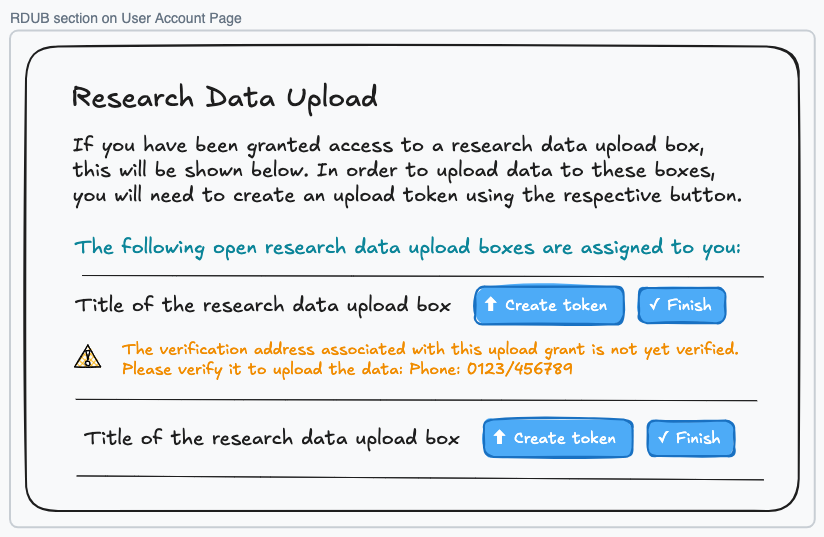
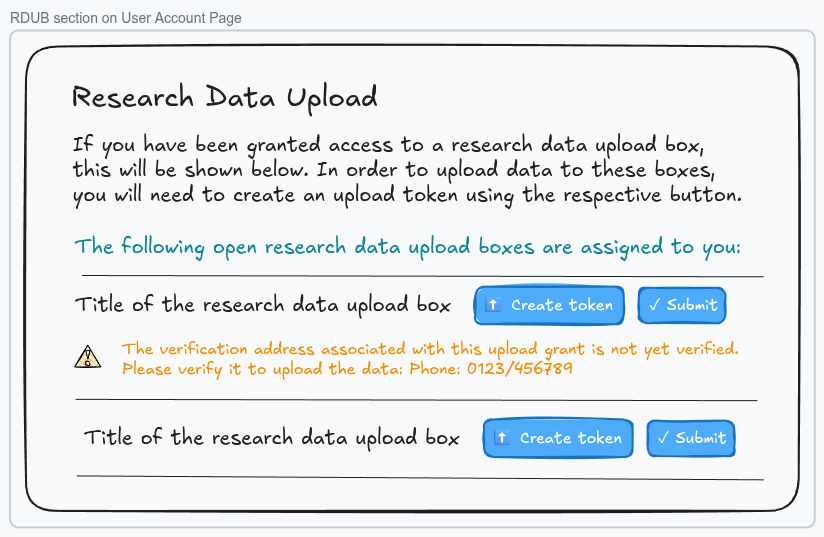
Update with latest suggestions

diff --git a/86-archaeopteryx/technical_specification.md b/86-archaeopteryx/technical_specification.md
@@ -8,7 +8,7 @@
 
 In this epic we implement the minimum necessary frontend functionality to make Research Data Upload Boxes fully usable with the current version of the backend and to map uploaded research data files to their corresponding entries in the submitted experimental metadata.
 
-This will be an interim solution that still needs the data steward to help with management of the research data upload boxes and mapping the files, and this solution is not yet integrated with the planned study repository service.
+This will be an interim solution that still requires a data steward to help manage the Research Data Upload Boxes and map the files, and this solution is not yet integrated with the planned study repository service.
 
 Research Data Upload Boxes (RDUBs) have been specified and were implemented in the [Lynx Boreal](../76-lynx-boreal/technical_specification.md) and [Sarcastic Fringehead](../84-sarcastic-fringehead/technical_specification.md) epics on the backend side already.
 
@@ -20,26 +20,26 @@ The implementation contains three parts:
 
 An Upload Box Manager shall be added to the frontend. It shall be accessible by data stewards via the Admin menu and allow them to:
 
-- list available RDUBs
-- create a new RDUB for a specific user
-- close, lock and unlock RDUBs
+- List available RDUBs.
+- Create a new RDUB for a specific user.
+- Close, lock and unlock RDUBs.
 
 Additionally, an "Upload Grants" section should be added to the User Manager that shows the upload grants of the user and the corresponding RDUBs.
 
 #### 2. Upload Token Creation
 
-Users should be able to see all RDUBs that have been opened for them in a new section on their account page. For all RDUBs in the "open" state, the interface will show a button leading to a page that allows users to create an upload token for that RDUB. This should function similarly to the existing functionality for creating download tokens.
+Users should be able to see all RDUBs opened for them in a new section on their account page. For all RDUBs in the "open" state, the interface will show a button leading to a page that allows users to create an upload token for that RDUB. This should function similarly to the existing functionality for creating download tokens.
 
-The currently existing page on the "work-packages" path that was meant to support both download and upload tokens should be removed, and both upload and download tokens should be created directly on the account page using modals for entering the public key and showing the token.
+The currently existing page on the "work-packages" path that was meant to support both download and upload tokens should be removed. Both kinds of tokens should be created directly on the account page instead, using modals for entering the public key and showing the token.
 
 #### 3. Research Data File to Experimental Metadata File Mapping
 
-The Upload Box Manager should provide a sub-page that helps establishing the missing link between the uploaded files in the Research Data Upload Boxes (RDUBs) and the submitted Experimental Metadata (EM):
+The Upload Box Manager should provide a sub-page that helps establish the missing link between the uploaded files in the Research Data Upload Boxes (RDUBs) and the submitted Experimental Metadata (EM):
 
-- RDUBs identify files via a globally unique ID and by a user-specified alias that is unique per RDUB
-- EM identifies files via accession numbers, but files also have a field for the name of the file and an alias
+- RDUBs identify files via a globally unique ID and a user-specified alias that is unique per RDUB.
+- EM identifies files via accession numbers, but files also have a field for the name of the file and an alias.
 
-By default the ghga-connector assigns the alias based on the filename when uploading to an RDUB. The file name submitted with the EM usually should correspond to this filename, but that is not guaranteed. Sometimes the alias is used instead, or the filenames submitted in the EM could be slightly different. It is also not guaranteed that the number of files matches - there could be more files listed in the EM than have been uploaded, or files can have been uploaded that have no corresponding entry in the EM. The frontend should handle these cases gracefully, and support the data steward in creating a mapping between the uploaded files and the EM entries with as much automation as possible while allowing manual overrides.
+By default, the ghga-connector assigns the alias based on the filename when uploading to an RDUB. The file name submitted with the EM usually should correspond to this filename, but that is not guaranteed. Sometimes the alias is used instead, or the filenames submitted in the EM could be slightly different. It is also not guaranteed that the number of files matches - there could be more files listed in the EM than have been uploaded, or files can have been uploaded that have no corresponding entry in the EM. The frontend should handle these cases gracefully, and support the data steward in creating a mapping between the uploaded files and the EM entries with as much automation as possible while allowing manual overrides.
 
 All RDUBs in the locked state should have a button that opens this mapping tool. Further details of the mapping UI are described below.
 
@@ -51,7 +51,7 @@ This epic should only provide the necessary functionality so that it can be ship
 
 The epic does not implement a full self-service solution for managing the RDUBs by the users who are uploading the files and no integration to the planned metadata services. It also does not implement any additional backend functionality.
 
-The epic also does not include a complete Upload Grant Manager. This could be later added later, similarly to the (Download) Access Grant Manager. For now, upload grants are managed via the Upload Box Details Page and are also listed on the user detail page in the User Manager.
+The epic also does not include a complete Upload Grant Manager. This could be added later, similarly to the (Download) Access Grant Manager. For now, upload grants are managed via the Upload Box Details page and are also listed on the user detail page in the User Manager.
 
 ## User Journeys
 
@@ -59,7 +59,7 @@ This epic covers the following user journeys:
 
 1. A data steward creates a new Research Data Upload Box and authorizes a user to upload research data files to that box, using the Upload Box Manager in the GHGA data portal.
 2. The user sees the newly created box on the user account page in the GHGA data portal and hits the button to create an upload token for the box.
-3. The user confirms that an upload token shall be created for that box and after entering their public Crypt4GH key, will be shown the corresponding upload token once.
+3. After entering their public Crypt4GH key, the user can create the upload token, which is shown only once with the option to copy it to the clipboard.
 4. The user copies the token and continues the upload in the GHGA connector using the generated upload token (not part of this epic).
 5. After uploading all research data files, the user locks the upload box on the user account page in the GHGA data portal and informs the data steward that the upload has been completed.
 6. The data steward sees that the box has been locked (or otherwise locks the box).
@@ -99,17 +99,17 @@ Only open RDUBs for which access has been granted to the user will appear here.
 
 In the case that an upload grant does not have an IVA or the IVA is not yet verified, a warning will be shown.
 
-When the "finish" button is clicked, the user will be asked for confirmation to close the box since this this cannot be reverted only by a data steward, and the box will be closed.
+When the "Submit" button is clicked, the upload will be considered as finished and the box will be closed. Since this can only be reverted by a data steward, the user will be asked for confirmation after clicking the button.
 
 ### Upload Token Creation
 
-Step 2: After the "create token" button next to the upload box on the account page has been clicked, the detailed description is shown and the user's public Crypt4GH key is requested:
+Step 1: After the "create token" button next to the upload box on the account page has been clicked, the detailed description is shown and the user's public Crypt4GH key is requested:
 
 ![Create upload token, step 1](./images/create_token_step_1.png)
 
 Notes:
 
-The button will only be enabled when the Crypt4GH key has been entered.
+The button will only be enabled after the Crypt4GH key has been entered.
 
 Step 2: After "Generate an access token for upload" has been clicked, the upload token will be shown once:
 
@@ -121,25 +121,27 @@ Step 2: After "Generate an access token for upload" has been clicked, the upload
 
 Notes:
 
-Initially, metadata file names with a matching file name in the upload box are mapped automatically. Only exact matches count, and casing may be only different if there is only one case insensitive match. All such exact matches are shown in green color on the right side.
+Initially, nothing will be mapped. Only when the "mapped field in metadata" is selected, metadata file names with a matching file name in the upload box are mapped automatically. Only exact matches count. Casing may be only different if there is a single case-insensitive match. All such exact matches are shown in green color on the right side.
 
-The "mapped field in metadata" shall be automatically selected so that the number of such exact matches is maximized. If the selection for the field is changed or the "Reset" button is clicked, any manually established mappings shall be removed after confirmation by the user, and the matching files should be newly mapped again.
+We may later change this and pre-select the "mapped field in metadata" automatically (the one that maximizes the number of such exact matches), but for now we decided that the data steward needs to make an explicit choice.
 
-The "Filter by" field allows filtering by filename. It shall be possible to enter just a part of the file name or just an extension, like ".fastq". The filter should be case insensitive and match both metadata names and uploaded file names. If a filter is set, a highly visible button to remove the filter should appear.
+If the selected metadata field is changed or the "Reset" button is clicked, any manually established mappings shall be removed after confirmation by the user, and the matching files should be newly mapped again.
 
-The table shall be sortable by clicking on one of the columns in the header row, including the last column. This allows sorting the names so that unmapped files (which have not file name in the right column) appear at the top. The default sorting should be by extension first, then by filename.
+The "Filter by" field allows filtering by filename. It shall be possible to enter just a part of the file name or just an extension, like ".fastq". The filter should be case-insensitive and match both metadata names and uploaded file names. If a filter is set, a highly visible button to remove the filter should appear.
 
-Above the table, the number of mapped and unmapped files from metadata, the number of exact matches, manually established links and unused (unmapped) files in the outbox shall be shown unless these numbers are zero.
+The table shall be sortable by clicking on one of the columns in the header row, including the last column. This allows sorting the names so that unmapped files (which have no file name in the right column) appear at the top. The default sorting should be by extension first, then by filename.
+
+Below the table header row, the number of mapped and unmapped files from metadata, the number of exact matches, manually established links and unmapped (unused) files in the outbox shall be shown unless the corresponding numbers are zero. Leaving files from metadata unmapped shall be allowed, but unmapped files in the outbox shall be considered an error that needs to be fixed by deleting the surplus files.
 
 Below the table there should also be a paginator (same as for most other tables).
 
-When clicking on a line in the table, an inline editor should appear where the user can enter a file name in the upload box that shall be mapped. Also, a selection box should pop up below the inline editor that shows all unmapped files and narrows down as the user types in characters. Exact matches should appear at the top of the selection list, following by other names ordered in the same way as the right column. When clicking outside the field or the selection box, or when pressing "Enter", the selected file name shall be accepted if it exists in the upload box and is not yet mapped elsewhere. Otherwise, the entry in the mapped columns shall stay empty. This also allows removing an already established mapping.
+When clicking a row in the table, an inline editor should appear where the user can enter a file name in the upload box that shall be mapped. Also, a selection box should pop up below the inline editor that shows all unmapped files and narrows down as the user types in characters. Exact matches should appear at the top of the selection list, followed by other names ordered in the same way as the right column. When clicking outside the field or the selection box, or when pressing Enter, the selected file name shall be accepted if it exists in the upload box and is not yet mapped elsewhere. Otherwise, the entry in the mapped columns shall remain empty. This also allows removing an already established mapping.
 
-Mappings that have been established manually and do not match exactly should be shown in blue instead of green color (maybe with additional indication like a warning sign for better visibility and a11y).
+Mappings that have been established manually and do not match exactly should be shown in blue instead of green color (optionally with additional indication, e.g. a warning icon, for better visibility and accessibility).
 
 When clicking "Reset" or "Cancel" and manual mappings have already been made, the user needs to confirm the action.
 
-When clicking "Confirm mapping and archive" a confirmation dialog should pop up as well, explaining that the action is irrevocable and a checkbox must be ticked to proceed. If not all files have been mapped, a dialog should pop up showing the number of unmapped files and the name of the first unmapped file and telling the user that all files need to be mapped.
+When clicking "Confirm mapping and archive", a confirmation dialog should pop up as well, explaining that the action is irrevocable, and a checkbox must be ticked to proceed. If not all files in the outbox have been mapped, the dialog should show the number of unmapped files and the name of the first unmapped file and tell the user that these files need to be either mapped or deleted before the submission can be completed. If not all files from metadata have been mapped, the dialog should just show a warning with the number of unmapped files and the name of the first unmapped file, but allow the user to proceed without these files being mapped.
 
 ## API Endpoints used by the frontend
 
@@ -192,7 +194,7 @@ Used to get the full names of the storage locations:
 
 ## Additional Implementation Details
 
-It must be verified that the RDUB is in the same state when the mapping is submitted as it was when the data has been loaded by the mapping tool. For that purpose, the backend should provide a version/revision number that increases on every change of the RDUB (including changes in any of the associated files). This version number must be submitted together with the mapping, and the backend should reject a submission when the current version of the RDUB is different.
+It must be verified that the RDUB is in the same state when the mapping is submitted as it was when the data has been loaded by the mapping tool. For that purpose, the backend should provide a revision number that increases on every change of the RDUB (including changes in any of the associated files). This revision number must be submitted together with the mapping, and the backend should reject a submission when the current version of the RDUB is different.
 
 The mapping can be stored in the browser of the data steward using local storage, so that a mapping session can easily be resumed. However, this is optional since it is only important if the data steward needs to make many manual mappings, which should usually not happen.
 
